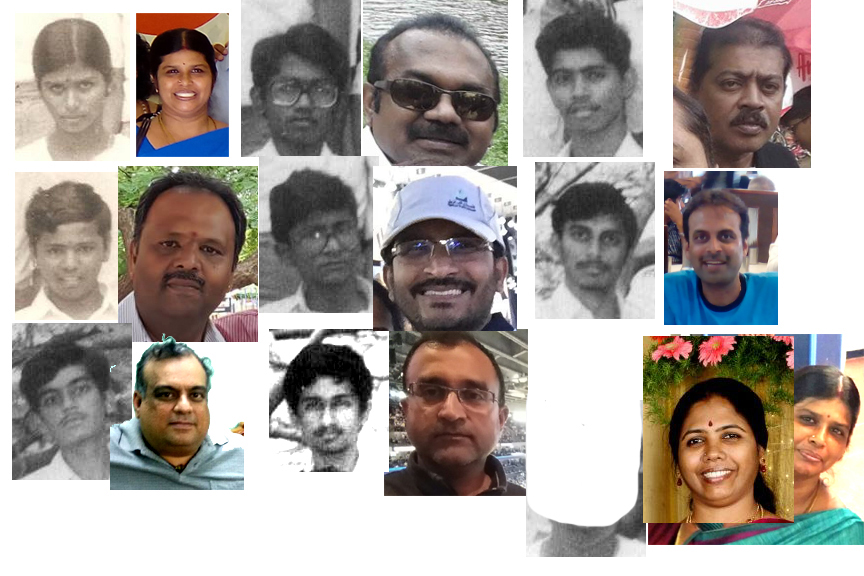
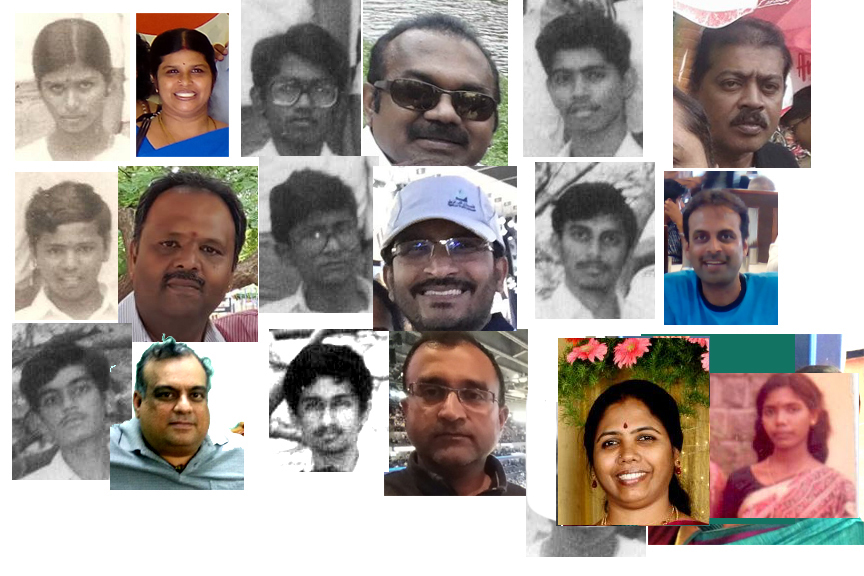
Sep0224

Changed region(s): [[0.625, 0.5625, 1.0, 0.9375]]

diff --git a/BirthdaySep0224/index.html b/BirthdaySep0224/index.html
@@ -1,0 +1,112 @@
+<!DOCTYPE html PUBLIC "-//W3C//DTD XHTML 1.0 Transitional//EN" "http://www.w3.org/TR/xhtml1/DTD/xhtml1-transitional.dtd">
+<html xmlns="http://www.w3.org/1999/xhtml">
+
+<head>
+<meta content="en-us" http-equiv="Content-Language" />
+<meta content="text/html; charset=utf-8" http-equiv="Content-Type" />
+<title>Thank you</title>
+<style type="text/css">
+.auto-style1 {
+	font-family: Impact, Haettenschweiler, "Arial Narrow Bold", sans-serif;
+	font-size: xx-large;
+	color: #3AFF09;
+}
+.auto-style2 {
+	text-align: center;
+}
+.auto-style3 {
+	font-family: Impact, Haettenschweiler, "Arial Narrow Bold", sans-serif;
+	font-size: xx-large;
+	color: #F55F00;
+}
+</style>
+</head>
+
+<body>
+
+<p class="auto-style2"><br />
+<img alt="" src="imgD.jpg" /></p>
+<table style="width: 100%">
+	<tr>
+		<td><img alt="" src="img4.jpg" /></td>
+		<td>&nbsp;&nbsp;&nbsp;&nbsp;&nbsp;&nbsp;&nbsp; <span class="auto-style1">
+		Thank you, Bond</span></td>
+	</tr>
+	<tr>
+		<td><img alt="" height="211" src="img5.jpg" width="242" /></td>
+		<td>&nbsp;<span class="auto-style1">Thank you, Shyam</span></td>
+	</tr>
+	<tr>
+		<td><img alt="" src="img6.jpg" /></td>
+		<td><span class="auto-style1">Thank you, Miranda<br />
+		Thank you, Avichi<br />
+		Thank you, Mythili<br />
+		Thank you, Nagarajan<br />
+		Thank you, Bala<br />
+		Thank you, Subbulakshmi<br />
+		Thank you, Kutri<br />
+		Thank you, JP</span></td>
+	</tr>
+	<tr>
+		<td><img alt="" src="img7.jpg" /></td>
+		<td><span class="auto-style1">Thank you, Balaji</span></td>
+	</tr>
+	<tr>
+		<td><img alt="" src="img8.jpg" /></td>
+		<td><span class="auto-style1">Thank you, Kanchana<br />
+		Thank you, Aruna<br />
+		Thank you, Gnana</span></td>
+	</tr>
+	<tr>
+		<td><img alt="" src="imgA.jpg" /></td>
+		<td><span class="auto-style1">Thank you, Pops<br />
+		Thank you, Latha<br />
+		Thank you, Lalitha</span></td>
+	</tr>
+	<tr>
+		<td style="height: 23px"><img alt="" src="imgB.jpg" /></td>
+		<td style="height: 23px"><span class="auto-style1">Thank you, Bhavesh 
+		Bhai</span></td>
+	</tr>
+	<tr>
+		<td><img alt="" src="imgC.jpg" /></td>
+		<td><span class="auto-style1">Thank you, Kumar</span></td>
+	</tr>
+	<tr>
+		<td><img alt="" src="imgE.jpg" /></td>
+		<td><span class="auto-style1">Thank you, </span>
+		<span class="auto-style3">Bond</span></td>
+	</tr>
+	<tr>
+		<td>&nbsp;</td>
+		<td>&nbsp;</td>
+	</tr>
+	<tr>
+		<td>&nbsp;</td>
+		<td>&nbsp;</td>
+	</tr>
+	<tr>
+		<td>&nbsp;</td>
+		<td>&nbsp;</td>
+	</tr>
+	<tr>
+		<td>&nbsp;</td>
+		<td>&nbsp;</td>
+	</tr>
+	<tr>
+		<td>&nbsp;</td>
+		<td>&nbsp;</td>
+	</tr>
+	<tr>
+		<td>&nbsp;</td>
+		<td>&nbsp;</td>
+	</tr>
+	<tr>
+		<td>&nbsp;</td>
+		<td>&nbsp;</td>
+	</tr>
+</table>
+
+</body>
+
+</html>
